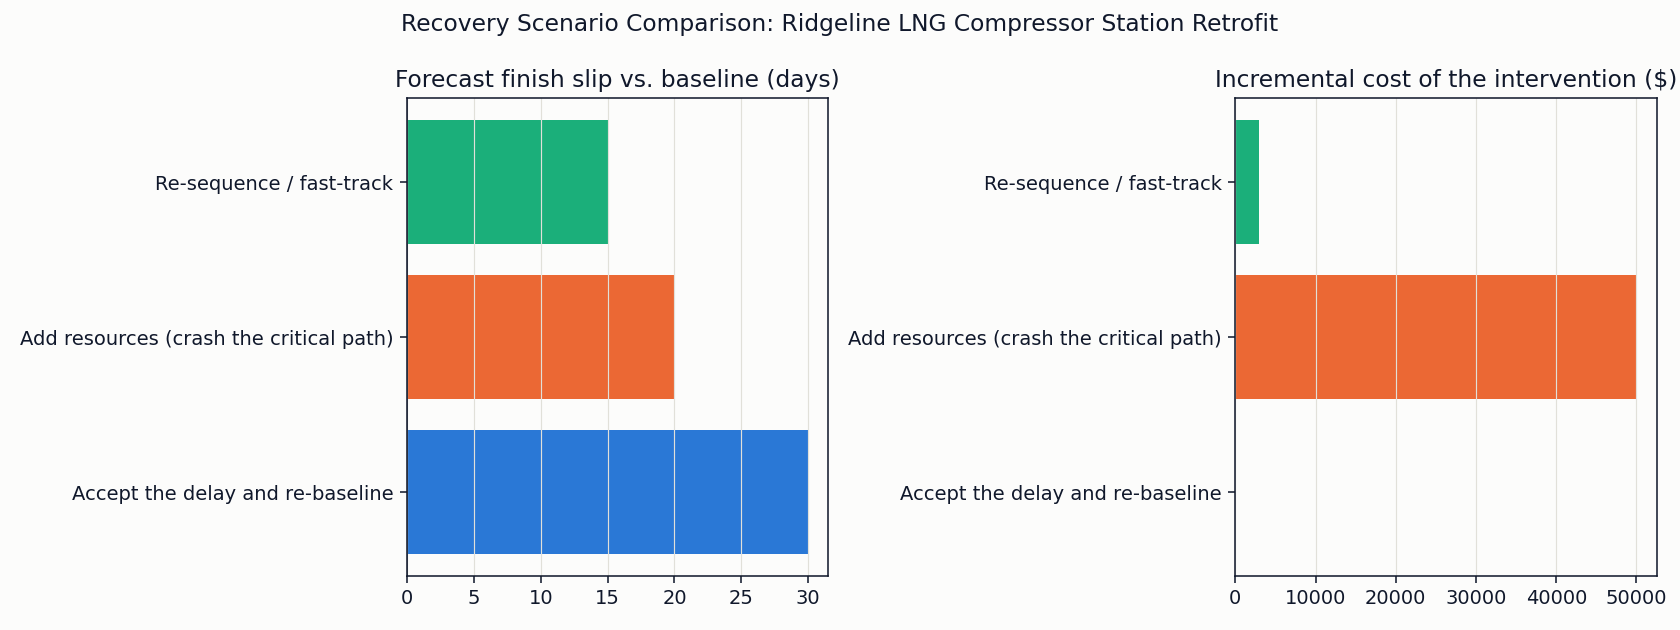
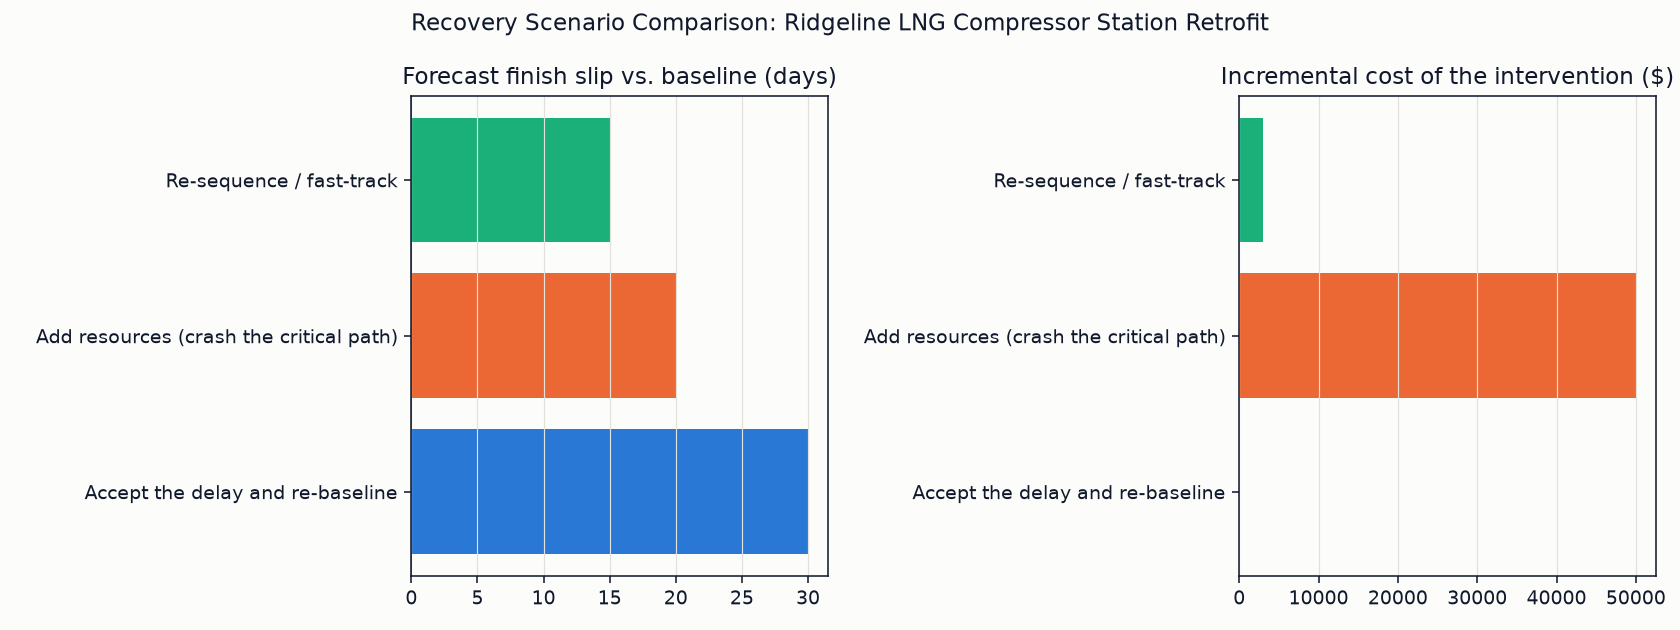
Align vendored engines with their (now-fixed) sources, fix local issues
Same engine-alignment pass as project-controls-reporting-engine (this
repo's engines/ had diverged from their sources the same way):

- dashboard engine: zero-division guard on SPI/CPI, simplified
  forecast_completion_date (drop unused milestones param, return None
  instead of raising on zero/NaN SPI). Kept for parity even though this
  repo's own planner.py doesn't call it directly.
- schedule engine: CPM duration rounding uses round() not int();
  compare_schedules dedupes duplicate activity_id rows; schedule_health_score
  upper-clamps its slip component to 50.
- risk engine: risk_trajectory_score now takes snapshots and churn-controls
  the trend score; per_risk_trajectory restored to the full 5-category,
  status-aware classification; mitigation_effectiveness uses the most
  recently recorded due date, a strictly-after window, and a "Held Steady"
  verdict for an exact tie. (portfolio_exposure_trend was already the raw
  version here, matching the source -- no change needed.)

With engines/ matching their sources exactly, the "vendored unchanged"
header claim in each engine module is now actually true.

Local fixes in planner.py:
- money(): standardize negative formatting to sign-first, matching the
  rest of the toolkit.
- chart_comparison(scenarios, summary): dropped the unused summary param.
- Narrowed the bare `except Exception` around chart generation to the
  actual exception types matplotlib/pandas/the filesystem can raise
[…]

diff --git a/engines/risk/metrics.py b/engines/risk/metrics.py
@@ -28,21 +28,42 @@ def portfolio_exposure_trend(snapshots: pd.DataFrame) -> pd.DataFrame:
     )
 
 
+CLOSED_STATUSES = {"closed", "resolved"}
+
+
+def _delta_trend(delta: float) -> str:
+    if delta >= TREND_THRESHOLD:
+        return "Worsening"
+    if delta <= -TREND_THRESHOLD:
+        return "Improving"
+    return "Stable"
+
+
 def per_risk_trajectory(snapshots: pd.DataFrame, latest_snapshot: pd.Timestamp) -> pd.DataFrame:
     """First vs. last recorded exposure per risk, classified as a trend."""
+    has_status = "status" in snapshots.columns and snapshots["status"].notna().any()
     rows = []
     for risk_id, group in snapshots.groupby("risk_id"):
         group = group.sort_values("snapshot_date")
         first, last = group.iloc[0], group.iloc[-1]
         delta = last["exposure"] - first["exposure"]
-        if last["snapshot_date"] < latest_snapshot:
+        missing_from_latest = last["snapshot_date"] < latest_snapshot
+        last_status = str(last["status"]).strip().lower() if has_status and pd.notna(last.get("status")) else ""
+
+        if last_status in CLOSED_STATUSES:
+            # The register's own status field says this risk is done -- trust it
+            # regardless of whether it's still being reported in later snapshots.
             trend = "Closed/Resolved"
-        elif delta >= TREND_THRESHOLD:
-            trend = "Worsening"
-        elif delta <= -TREND_THRESHOLD:
-            trend = "Improving"
+        elif missing_from_latest:
+            if has_status:
+                # Status data exists but never said Closed/Resolved, so a risk
+                # dropping out of the latest snapshot is unconfirmed, not closed.
+                trend = "Dropped (Unconfirmed)"
+            else:
+                # No status data at all: fall back to the old absence-based inference.
+                trend = "Closed/Resolved"
         else:
-            trend = "Stable"
+            trend = _delta_trend(delta)
         rows.append({
             "risk_id": risk_id,
             "description": last["description"],
@@ -61,18 +82,28 @@ def mitigation_effectiveness(snapshots: pd.DataFrame) -> pd.DataFrame:
     """For risks with a mitigation due date, compare avg exposure before vs after it."""
     rows = []
     for risk_id, group in snapshots.groupby("risk_id"):
-        due = group["mitigation_due_date"].iloc[0]
+        # Use the most recently recorded due date, not the earliest -- a later
+        # reschedule of the mitigation deadline should not be silently ignored.
+        due_series = group["mitigation_due_date"].dropna()
+        due = due_series.iloc[-1] if not due_series.empty else pd.NaT
         if pd.isna(due):
             continue
         before = group[group["snapshot_date"] < due]["exposure"]
-        after = group[group["snapshot_date"] >= due]["exposure"]
+        # Strictly after: a snapshot dated exactly on the due date has zero
+        # elapsed observation time and shouldn't count as post-mitigation.
+        after = group[group["snapshot_date"] > due]["exposure"]
         if before.empty or after.empty:
             verdict = "Too early to assess"
             avg_before = before.mean() if not before.empty else float("nan")
             avg_after = after.mean() if not after.empty else float("nan")
         else:
             avg_before, avg_after = before.mean(), after.mean()
-            verdict = "Effective" if avg_after < avg_before else "Ineffective"
+            if avg_after < avg_before:
+                verdict = "Effective"
+            elif avg_after > avg_before:
+                verdict = "Ineffective"
+            else:
+                verdict = "Held Steady"
         rows.append({
             "risk_id": risk_id,
             "description": group["description"].iloc[0],
@@ -84,11 +115,31 @@ def mitigation_effectiveness(snapshots: pd.DataFrame) -> pd.DataFrame:
     return pd.DataFrame(rows)
 
 
-def risk_trajectory_score(exposure_trend: pd.DataFrame, effectiveness: pd.DataFrame) -> dict:
+def risk_trajectory_score(
+    exposure_trend: pd.DataFrame, effectiveness: pd.DataFrame, snapshots: pd.DataFrame
+) -> dict:
     first_total = exposure_trend["total_exposure"].iloc[0]
     last_total = exposure_trend["total_exposure"].iloc[-1]
     pct_change = (last_total - first_total) / first_total * 100 if first_total else 0.0
-    trend_score = max(0.0, 50.0 - max(0.0, pct_change) * 1.5)
+
+    # Churn control: the raw portfolio totals above move whenever risks are
+    # added to or dropped from the register, which isn't the same thing as
+    # existing risks getting better or worse. Score the trend only over risks
+    # present at BOTH the earliest and latest snapshot dates, so register
+    # growth/shrinkage can't masquerade as a real trajectory change.
+    first_date = snapshots["snapshot_date"].min()
+    last_date = snapshots["snapshot_date"].max()
+    first_snap = snapshots[snapshots["snapshot_date"] == first_date]
+    last_snap = snapshots[snapshots["snapshot_date"] == last_date]
+    shared_ids = set(first_snap["risk_id"]) & set(last_snap["risk_id"])
+    shared_first_total = first_snap.loc[first_snap["risk_id"].isin(shared_ids), "exposure"].sum()
+    shared_last_total = last_snap.loc[last_snap["risk_id"].isin(shared_ids), "exposure"].sum()
+    shared_pct_change = (
+        (shared_last_total - shared_first_total) / shared_first_total * 100
+        if shared_first_total
+        else 0.0
+    )
+    trend_score = max(0.0, 50.0 - max(0.0, shared_pct_change) * 1.5)
 
     assessable = effectiveness[effectiveness["verdict"] != "Too early to assess"]
     effective_count = (assessable["verdict"] == "Effective").sum()
@@ -101,6 +152,10 @@ def risk_trajectory_score(exposure_trend: pd.DataFrame, effectiveness: pd.DataFr
         "first_total_exposure": first_total,
         "last_total_exposure": last_total,
         "exposure_pct_change": round(pct_change, 1),
+        "shared_risk_count": len(shared_ids),
+        "shared_first_exposure": shared_first_total,
+        "shared_last_exposure": shared_last_total,
+        "shared_exposure_pct_change": round(shared_pct_change, 1),
         "trend_score": round(trend_score, 1),
         "mitigation_score": round(mitigation_score, 1),
         "total_score": round(max(0.0, min(100.0, total)), 1),

diff --git a/planner.py b/planner.py
@@ -26,6 +26,7 @@ import os
 import matplotlib.pyplot as plt
 import pandas as pd
 
+from engines import chart_style
 from engines.dashboard import metrics as dash
 from engines.risk import metrics as risk
 from engines.schedule import cpm as cpm_engine
@@ -41,31 +42,16 @@ BAC = 2_400_000
 PROJECT_START = "2026-01-05"
 STATUS_DATE = "2026-08-01"
 
-# Standardized chart color system (chart chrome, categorical series)
-CHART_BG = "#fcfcfb"
-INK = "#10182b"
-GRID = "#e1e0d9"
-
-
-def _apply_chrome(fig, axes) -> None:
-    """Apply the standardized chart chrome (background, ink, gridlines) to a figure."""
-    fig.patch.set_facecolor(CHART_BG)
-    if hasattr(axes, "flatten"):
-        axes = axes.flatten().tolist()
-    elif not isinstance(axes, (list, tuple)):
-        axes = [axes]
-    for ax in axes:
-        ax.set_facecolor(CHART_BG)
-        ax.title.set_color(INK)
-        ax.xaxis.label.set_color(INK)
-        ax.yaxis.label.set_color(INK)
-        ax.tick_params(colors=INK)
-        for spine in ax.spines.values():
-            spine.set_color(INK)
+# Chart generation is best-effort: these are the exception types matplotlib/
+# pandas/the filesystem can actually raise while building and saving a chart
+# (bad or missing data, an unwritable assets dir). Anything else propagates
+# instead of being silently swallowed.
+CHART_EXCEPTIONS = (ValueError, KeyError, TypeError, OSError, RuntimeError)
 
 
 def money(x: float) -> str:
-    return f"${x:,.0f}"
+    sign = "-" if x < 0 else ""
+    return f"{sign}${abs(x):,.0f}"
 
 
 def load_programme_status():
@@ -124,37 +110,37 @@ def print_comparison(baseline_result, scenarios, summary) -> None:
     print()
 
 
-def chart_comparison(scenarios, summary) -> str | None:
+def chart_comparison(scenarios) -> str | None:
     """Generate a simple before/after bar chart: forecast finish slip and revised EAC per option."""
     try:
         labels = [s.label for s in scenarios]
         slips = [s.slip_days for s in scenarios]
         costs = [s.cost_impact for s in scenarios]
-        colors = ["#2a78d6", "#eb6834", "#1baf7a"]
+        colors = [chart_style.SERIES_1, chart_style.SERIES_2, chart_style.SERIES_3]
 
         fig, axes = plt.subplots(1, 2, figsize=(12, 4.5))
 
         ax = axes[0]
         ax.barh(labels, slips, color=colors)
         ax.set_title("Forecast finish slip vs. baseline (days)")
-        ax.axvline(0, color=INK, linewidth=0.8, alpha=0.6)
-        ax.grid(color=GRID, linewidth=0.6, axis="x")
+        ax.axvline(0, color=chart_style.INK, linewidth=0.8, alpha=0.6)
+        ax.grid(color=chart_style.GRID, linewidth=0.6, axis="x")
 
         ax = axes[1]
         ax.barh(labels, costs, color=colors)
         ax.set_title("Incremental cost of the intervention ($)")
-        ax.grid(color=GRID, linewidth=0.6, axis="x")
+        ax.grid(color=chart_style.GRID, linewidth=0.6, axis="x")
 
-        _apply_chrome(fig, axes)
+        chart_style.apply_chrome(fig, axes)
         fig.suptitle("Recovery Scenario Comparison: Ridgeline LNG Compressor Station Retrofit",
-                     fontsize=12, color=INK)
+                     fontsize=12, color=chart_style.INK)
         fig.tight_layout()
         out_path = os.path.join(ASSETS_DIR, "before_after_comparison.png")
-        fig.savefig(out_path, dpi=140, facecolor=CHART_BG)
+        fig.savefig(out_path, dpi=140, facecolor=chart_style.CHART_BG)
         plt.close(fig)
         return out_path
-    except Exception as exc:  # pragma: no cover - chart generation is best-effort
-        print(f"(chart generation skipped: {exc})")
+    except CHART_EXCEPTIONS as exc:
+        print(f"(chart generation skipped: {exc!r})")
         return None
 
 
@@ -172,7 +158,7 @@ def main() -> None:
     )
     recommend.print_recommendation(ranked, summary["spi"], summary["cpi"], do_nothing.slip_days, portfolio_exposure)
 
-    chart_path = chart_comparison(scenarios, summary)
+    chart_path = chart_comparison(scenarios)
     if chart_path:
         print()
         print("-" * 68)

diff --git a/engines/dashboard/metrics.py b/engines/dashboard/metrics.py
@@ -27,6 +27,9 @@ def add_performance_indices(df: pd.DataFrame) -> pd.DataFrame:
     out = df.copy()
     out["sv"] = out["earned_value_cum"] - out["planned_value_cum"]
     out["cv"] = out["earned_value_cum"] - out["actual_cost_cum"]
+    # Guard zero PV/AC the same way project_summary guards zero (bac - ac) for
+    # tcpi: a zero denominator can't yield a meaningful index, so report NaN
+    # instead of letting it silently become inf/-inf.
     out["spi"] = out["earned_value_cum"] / out["planned_value_cum"].replace(0, float("nan"))
     out["cpi"] = out["earned_value_cum"] / out["actual_cost_cum"].replace(0, float("nan"))
     return out
@@ -107,12 +110,15 @@ def change_impact_summary(changes: pd.DataFrame, bac: float) -> dict:
     }
 
 
-def forecast_completion_date(
-    milestones: pd.DataFrame, spi: float, project_start: str, planned_finish: str
-) -> pd.Timestamp:
-    """Simple SPI-based forecast: stretch remaining planned duration by 1/SPI."""
+def forecast_completion_date(spi: float, project_start: str, planned_finish: str):
+    """Simple SPI-based forecast: stretch remaining planned duration by 1/SPI.
+
+    Returns None (not yet forecastable) if SPI is zero/NaN, e.g. the first
+    reported period has no earned value yet, rather than raising
+    ZeroDivisionError.
+    """
+    if not spi or pd.isna(spi):
+        return None
     start = pd.Timestamp(project_start)
     planned_end = pd.Timestamp(planned_finish)
-    total_planned_days = (planned_end - start).days
-    forecast_days = total_planned_days / spi
-    return start + pd.Timedelta(days=round(forecast_days))
+    return start + (planned_end - start) / spi

diff --git a/engines/schedule/metrics.py b/engines/schedule/metrics.py
@@ -30,8 +30,13 @@ def run_baseline_and_current(activities: pd.DataFrame, project_start: str):
 
 
 def compare_schedules(activities: pd.DataFrame, baseline: cpm.CpmResult, current: cpm.CpmResult) -> pd.DataFrame:
+    # cpm.py internally collapses duplicate activity_id rows (dict keying keeps the
+    # last occurrence) before running CPM, so mirror that here: dedupe by activity_id,
+    # keeping the last occurrence, before merging/comparing. Otherwise a duplicate id
+    # in the input would double-count that activity against the deduped CPM output.
+    deduped_activities = activities.drop_duplicates(subset="activity_id", keep="last")
     merged = (
-        activities[["activity_id", "activity_name", "phase", "status", "percent_complete"]]
+        deduped_activities[["activity_id", "activity_name", "phase", "status", "percent_complete"]]
         .merge(
             baseline.schedule[["activity_id", "early_start", "early_finish", "total_float"]].rename(
                 columns={"early_start": "baseline_start", "early_finish": "baseline_finish",
@@ -55,7 +60,7 @@ def compare_schedules(activities: pd.DataFrame, baseline: cpm.CpmResult, current
 
 def schedule_health_score(comparison: pd.DataFrame, baseline_finish: pd.Timestamp, current_finish: pd.Timestamp) -> dict:
     slip_days = (current_finish - baseline_finish).days
-    schedule_score = max(0.0, 50.0 - slip_days * 1.5)
+    schedule_score = min(50.0, max(0.0, 50.0 - slip_days * 1.5))
 
     eroded_share = (comparison["float_erosion"] >= EROSION_THRESHOLD_DAYS).mean()
     erosion_score = 25.0 * (1 - eroded_share)

diff --git a/engines/chart_style.py b/engines/chart_style.py
@@ -1,0 +1,37 @@
+"""Standardized chart color system and chrome (chart chrome, categorical series).
+
+This module is identical, byte-for-byte, across all six repos in the
+github.com/alexc-hue project-controls toolkit (schedule-health-analyzer,
+project-controls-dashboard, change-control-register, risk-trend-tracker,
+project-controls-reporting-engine, recovery-scenario-planner). Each repo
+carries its own copy so it stays independently cloneable and runnable
+without pulling in the others, the same rationale the vendored engines
+already document. project-controls-dashboard is the canonical source; if
+the palette changes, update it there first and re-sync the rest.
+"""
+
+from __future__ import annotations
+
+CHART_BG = "#fcfcfb"
+INK = "#10182b"
+GRID = "#e1e0d9"
+SERIES_1 = "#2a78d6"
+SERIES_2 = "#eb6834"
+SERIES_3 = "#1baf7a"
+
+
+def apply_chrome(fig, axes) -> None:
+    """Apply the standardized chart chrome (background, ink, gridlines) to a figure."""
+    fig.patch.set_facecolor(CHART_BG)
+    if hasattr(axes, "flatten"):
+        axes = axes.flatten().tolist()
+    elif not isinstance(axes, (list, tuple)):
+        axes = [axes]
+    for ax in axes:
+        ax.set_facecolor(CHART_BG)
+        ax.title.set_color(INK)
+        ax.xaxis.label.set_color(INK)
+        ax.yaxis.label.set_color(INK)
+        ax.tick_params(colors=INK)
+        for spine in ax.spines.values():
+            spine.set_color(INK)

diff --git a/engines/schedule/cpm.py b/engines/schedule/cpm.py
@@ -44,7 +44,7 @@ def run_cpm(activities: pd.DataFrame, duration_col: str, start_date: pd.Timestam
     for aid in order:
         es = max((early_finish[p] for p in preds[aid]), default=start_date)
         early_start[aid] = es
-        early_finish[aid] = es + pd.Timedelta(days=int(duration[aid]))
+        early_finish[aid] = es + pd.Timedelta(days=round(duration[aid]))
 
     project_finish = max(early_finish.values())
 
@@ -58,7 +58,7 @@ def run_cpm(activities: pd.DataFrame, duration_col: str, start_date: pd.Timestam
     for aid in reversed(order):
         lf = min((late_start[s] for s in successors[aid]), default=project_finish)
         late_finish[aid] = lf
-        late_start[aid] = lf - pd.Timedelta(days=int(duration[aid]))
+        late_start[aid] = lf - pd.Timedelta(days=round(duration[aid]))
 
     rows = []
     for aid in order:
